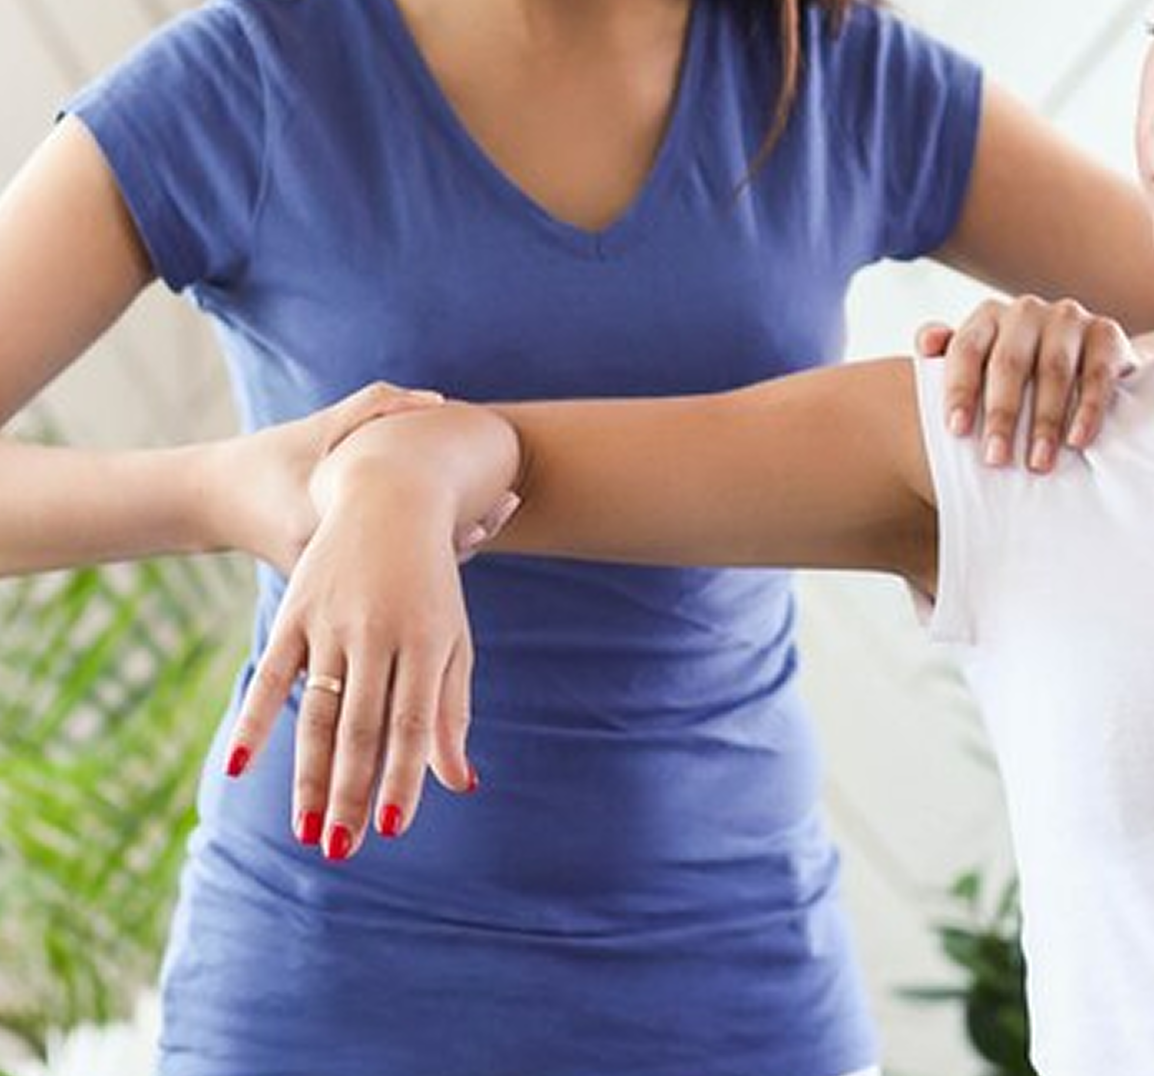
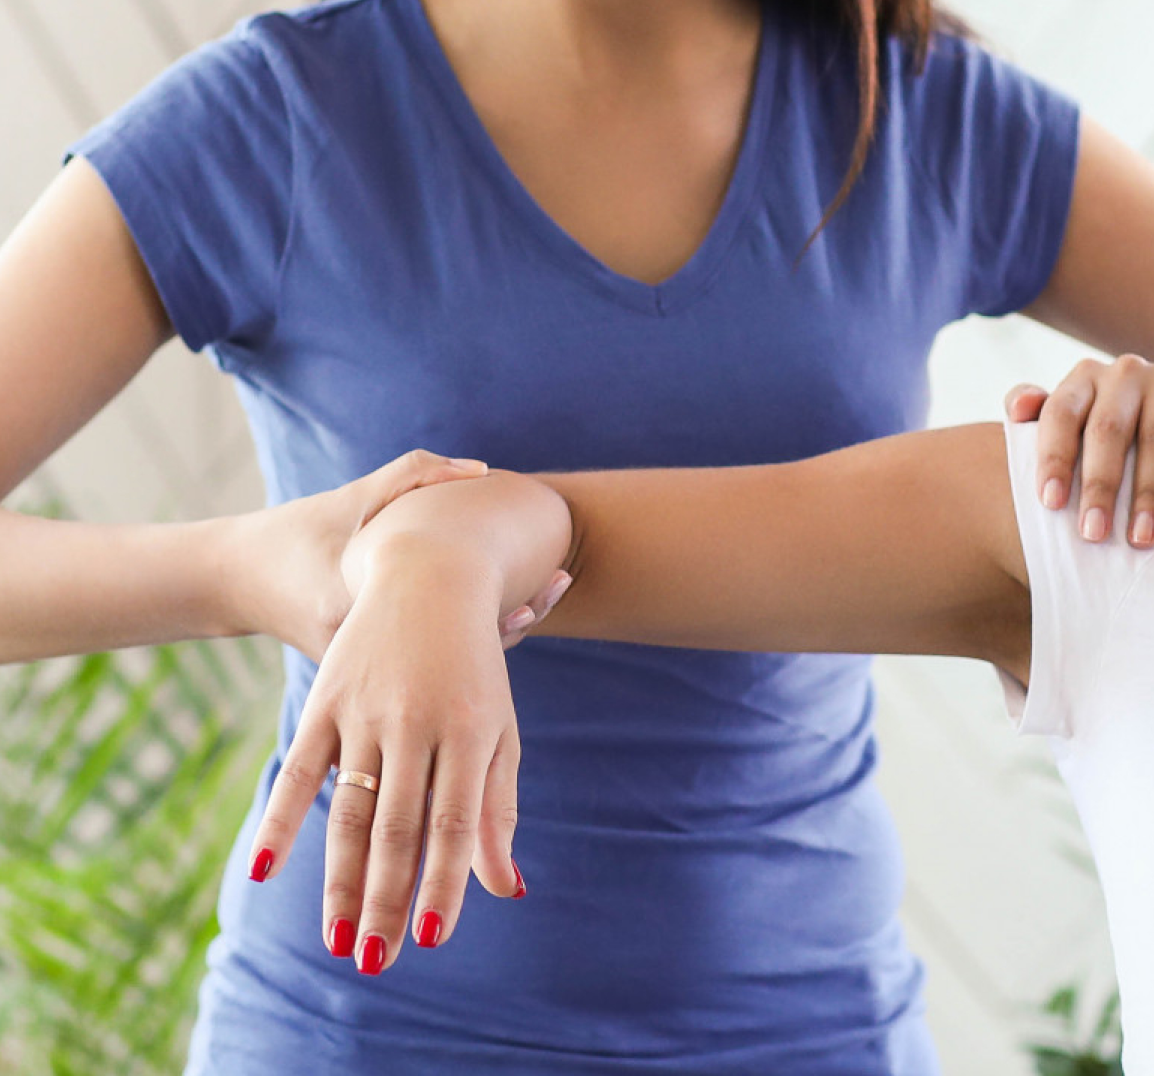
updated pic and tesyimonial height

diff --git a/components/home/Testimonials.tsx b/components/home/Testimonials.tsx
@@ -35,7 +35,7 @@ const Testimonials = ({ extraSpace }: { extraSpace: any }) => {
             </div>
 
             <div className="col-span-1 relative h-60 w-full z-50 opacity-100 ">
-              <div className=" md:hidden lg:hidden py-4">
+              <div className=" md:hidden lg:hidden py-4 h-full">
                 <Swiper
                   slidesPerView={1}
                   spaceBetween={30}
@@ -43,14 +43,14 @@ const Testimonials = ({ extraSpace }: { extraSpace: any }) => {
                     clickable: true,
                   }}
                   modules={[Pagination]}
-                  className="mySwiper w-full h-full"
+                  className="mySwiper w-full "
                 >
                   {review.map((el, index) => (
                     <SwiperSlide
-                      className="text-center flex justify-center items-center  bg-[#EFEFEF] rounded-2xl py-6 px-4"
+                      className="text-center flex justify-center items-center  bg-[#EFEFEF] rounded-2xl py-6 px-4 "
                       key={index}
                     >
-                      <Link href={"/testimonials"} className="w-full h-full">
+                      <Link href={"/testimonials"} className="w-full ">
                         <div className=" cursor-pointer flex flex-col justify-start items-center w-full gap-3 ">
                           <div className="basis-5/12">
                             <Image
@@ -66,7 +66,7 @@ const Testimonials = ({ extraSpace }: { extraSpace: any }) => {
                             <h4 className="font-baskerville text-lg text-left line-clamp-1">
                               &#x201C; {el.username} &#x201D;
                             </h4>
-                            <p className="font-sans text-sm text-center line-clamp-4">
+                            <p className="font-sans text-sm text-center line-clamp-3">
                               {el.text}
                             </p>
                           </div>
